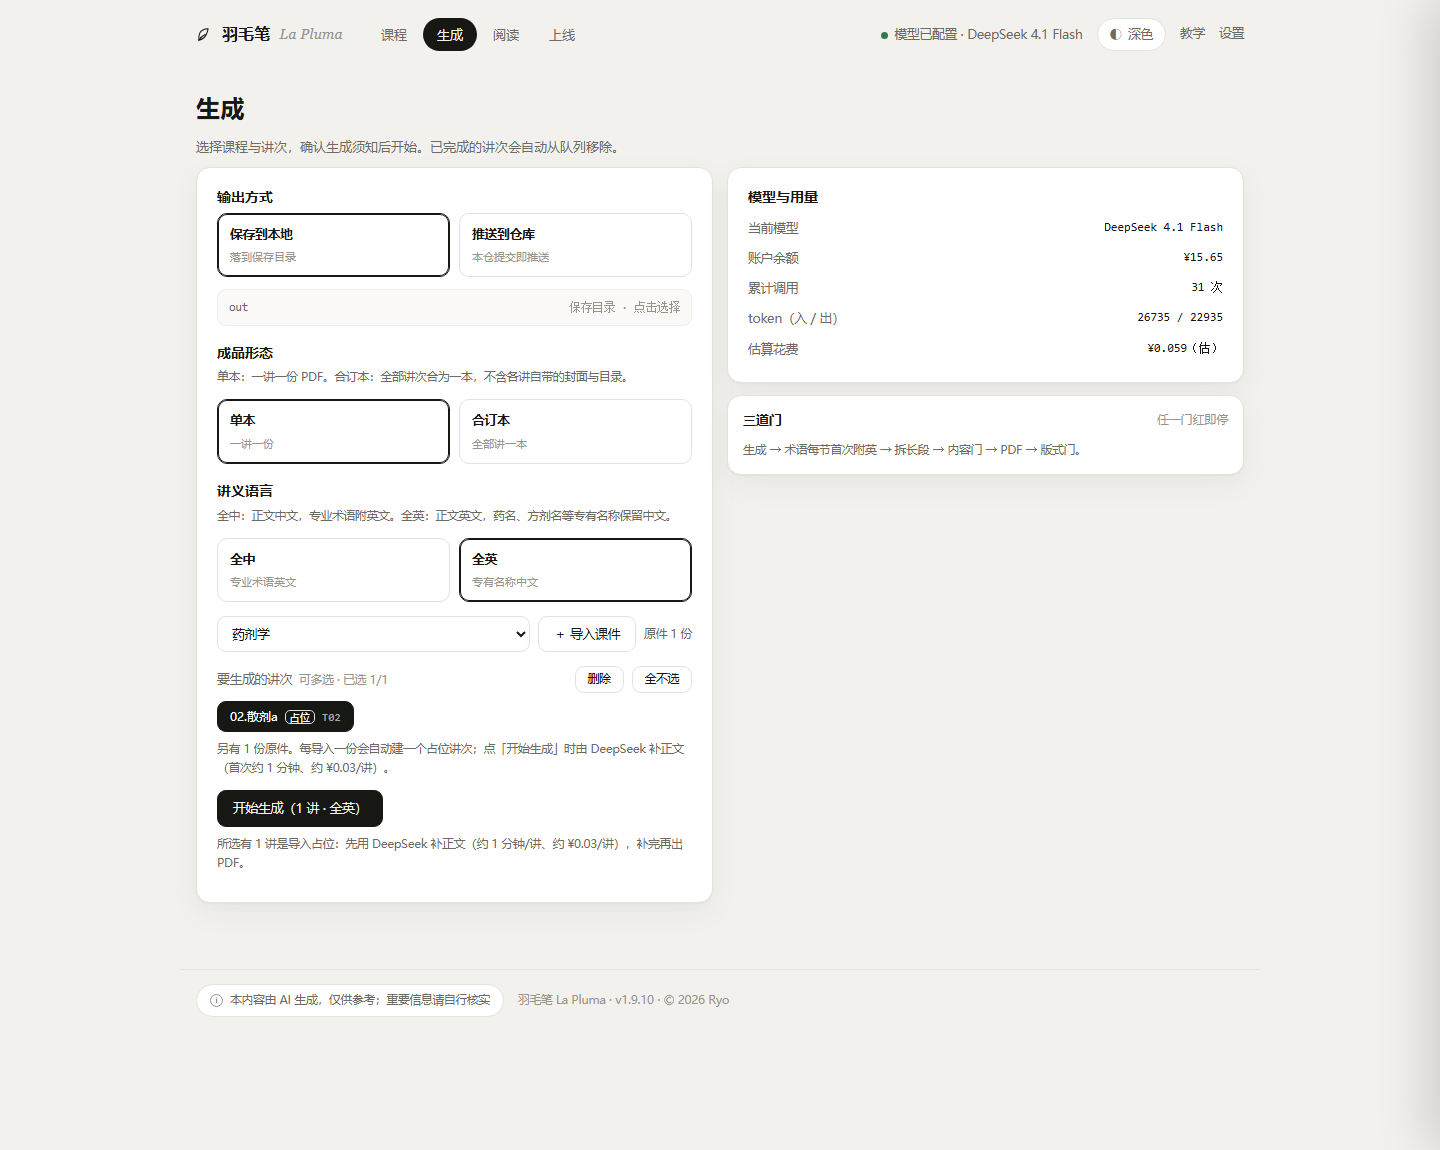
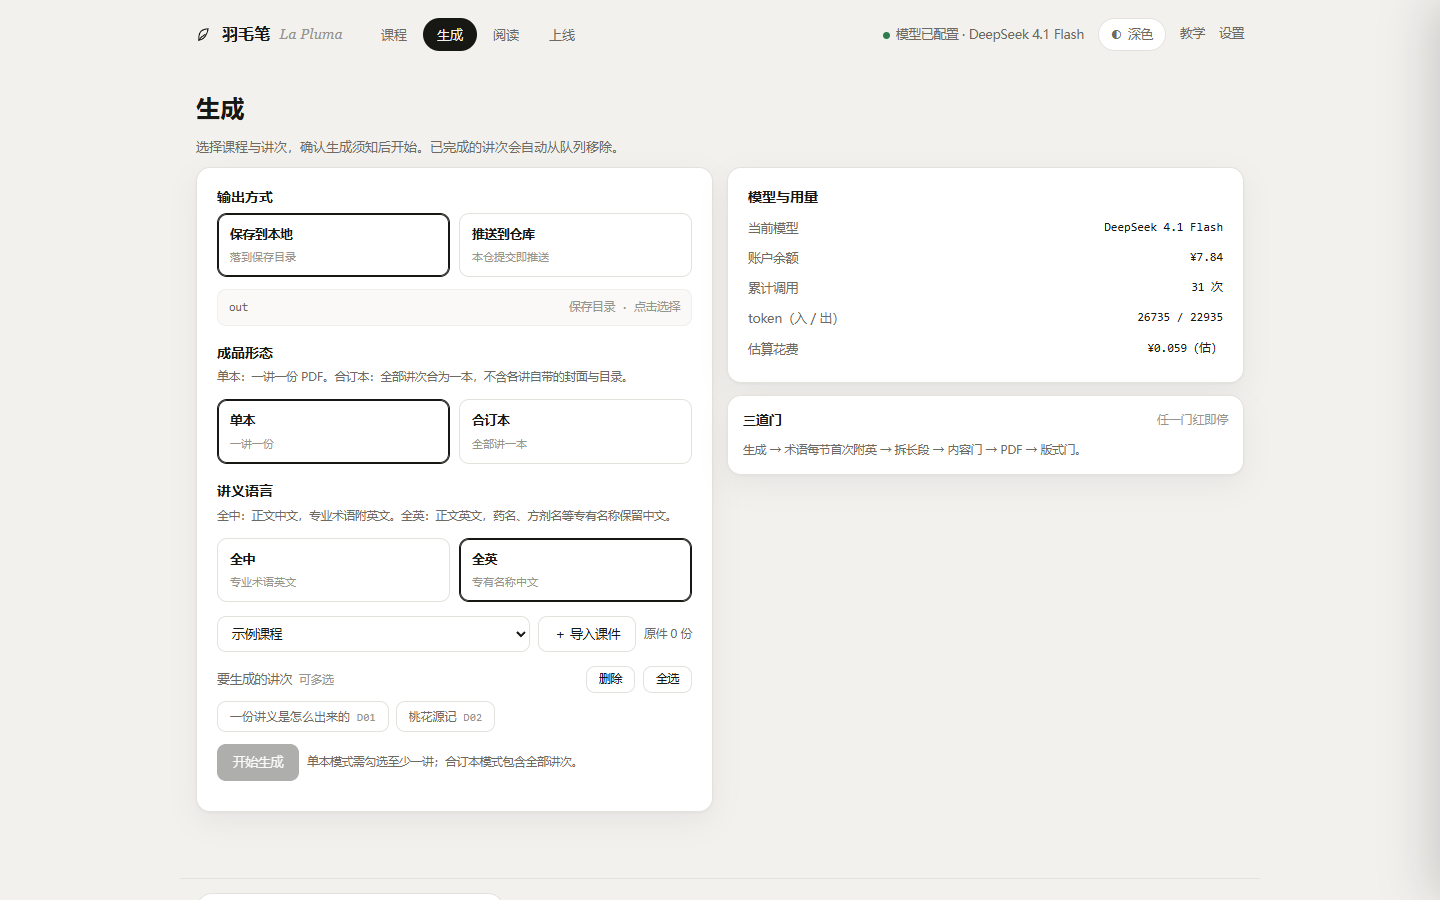
fix(window): 导航固定、拉边缩放与界面截图全量重拍（v1.9.11）

diff --git a/ui/index.html b/ui/index.html
@@ -477,6 +477,18 @@ footer{max-width:1080px;margin:26px auto 0;padding:0 16px;display:flex;align-ite
  body.win{height:100vh;overflow:hidden;display:flex;flex-direction:column}
  body.win #appScroll{flex:1 1 auto;min-height:0;overflow-y:auto;overflow-x:hidden}
  body.win .tbar{position:relative;flex:0 0 36px}
+ /* 导航在窗口模式里也固定（标题栏下面），页面内容从它下面滚 */
+ body.win #navSticky{position:sticky;top:0;z-index:70;background:var(--bg);border-bottom:1px solid var(--line2)}
+ body.win #navSticky .top{padding-bottom:10px}
+ /* 拉边缩放：WebView2 子窗口盖住 NC 边，系统 WM_NCHITTEST 收不到鼠标；
+    用 5–6px 的透明把手自己算，右侧让出 10px 滚动条 */
+ .rz{position:fixed;z-index:90;touch-action:none}
+ .rz-r{top:36px;right:10px;bottom:10px;width:5px;cursor:ew-resize}
+ .rz-l{top:36px;left:0;bottom:10px;width:6px;cursor:ew-resize}
+ .rz-b{left:0;right:10px;bottom:0;height:6px;cursor:ns-resize}
+ .rz-br{right:10px;bottom:0;width:16px;height:16px;cursor:nwse-resize}
+ .rz-bl{left:0;bottom:0;width:16px;height:16px;cursor:nesw-resize}
+ body.fs-read .rz{display:none}
  /* 滚动条收窄、去掉上下箭头按钮（2026-11-19：原来那条 17px 的经典滚动条太像网页，且带按钮） */
  body.win #appScroll{scrollbar-width:thin;scrollbar-color:var(--line) transparent}
  body.win #appScroll::-webkit-scrollbar{width:10px;height:10px}
@@ -543,6 +555,7 @@ footer{max-width:1080px;margin:26px auto 0;padding:0 16px;display:flex;align-ite
   </div>
 </div>
 <div id="appScroll">
+<div id="navSticky">
 <div class="top">
   <div class="brand">
     <svg width="17" height="17" viewBox="0 0 24 24" fill="none" stroke-width="1.5" stroke-linecap="round">
@@ -563,6 +576,7 @@ footer{max-width:1080px;margin:26px auto 0;padding:0 16px;display:flex;align-ite
     <span class="link" id="btnSet">设置</span>
   </div>
 </div>
+</div><!-- /navSticky -->
 
 <div class="wrap">
   <!-- 课程 -->
@@ -2519,6 +2533,53 @@ document.addEventListener('keydown', e => {
     bind('tbClose', a2 => a2.close());
   }
 
+  /* ---- 拉边缩放（2026-11-19）----
+     WebView2 的 child 窗口盖住了窗口的非客户区，系统的 WM_NCHITTEST 收不到鼠标，
+     WS_THICKFRAME 形同虚设；这里用 5 个透明把手自己做，位置/尺寸走 pywebview API。 */
+  function initResize(){
+    if(!WIN) return;
+    const api = () => (window.pywebview && window.pywebview.api) || null;
+    const specs = [
+      ['rz-r', 'r'], ['rz-l', 'l'], ['rz-b', 'b'], ['rz-br', 'rb'], ['rz-bl', 'lb']
+    ];
+    specs.forEach(([cls, edge]) => {
+      const el = document.createElement('div');
+      el.className = 'rz ' + cls;
+      document.body.appendChild(el);
+      el.addEventListener('pointerdown', e => {
+        const a = api();
+        if(!a || !a.get_box) return;
+        e.preventDefault();
+        a.get_box().then(box => {
+          if(!box || !box.ok || box.maxed) return;
+          const sx = e.screenX, sy = e.screenY;
+          let raf = 0, last = {x:box.x, y:box.y, w:box.w, h:box.h};
+          const move = ev => {
+            if(ev.buttons === 0) return;
+            const dx = ev.screenX - sx, dy = ev.screenY - sy;
+            let x = box.x, y = box.y, w = box.w, h = box.h;
+            if(edge.includes('r')) w = box.w + dx;
+            if(edge.includes('l')) { w = box.w - dx; x = box.x + dx; }
+            if(edge.includes('b')) h = box.h + dy;
+            if(w < 640){ if(edge.includes('l')) x = box.x + box.w - 640; w = 640; }
+            if(h < 480) h = 480;
+            last = {x, y, w, h};
+            if(!raf) raf = requestAnimationFrame(() => {
+              raf = 0;
+              try{ a.set_box(last.x, last.y, last.w, last.h); }catch(_){}
+            });
+          };
+          const up = () => {
+            document.removeEventListener('pointermove', move);
+            document.removeEventListener('pointerup', up);
+          };
+          document.addEventListener('pointermove', move);
+          document.addEventListener('pointerup', up, {once:true});
+        }).catch(() => {});
+      });
+    });
+  }
+
   /* ---- 更新提示 ---- */
   function snoozed(){
     try{ const t = Number(localStorage.getItem(SNOOZE) || 0); return !!t && Date.now() < t; }
@@ -2639,7 +2700,7 @@ document.addEventListener('keydown', e => {
   function initBarOnce(){
     if(barDone) return;
     if(!document.getElementById('tbar')) return;   // DOM 还没到就等下一次事件，别把「没初始化」记成完成
-    barDone = true; initBar();
+    barDone = true; initBar(); initResize();
   }
 
   window.addEventListener('pywebviewready', () => { if(WIN) initBarOnce(); });

diff --git a/tools/check/shot-rest.py b/tools/check/shot-rest.py
@@ -1,0 +1,137 @@
+# -*- coding: utf-8 -*-
+"""补齐 check-ui-preview 里需要交互的界面截图（2026-11-19）。
+
+    python tools\check\shot-rest.py --base http://127.0.0.1:8810
+
+只用示例课程 DEMO，保存目录显示 out；不拍真实课件名与本机路径。
+"""
+from __future__ import annotations
+
+import argparse
+import json
+import os
+import urllib.parse
+
+from playwright.sync_api import sync_playwright
+
+ROOT = os.path.dirname(os.path.dirname(os.path.dirname(os.path.abspath(__file__))))
+OUT = os.path.join(ROOT, "docs", "资产")
+
+MSGS = [
+    {"role": "user", "text": "这份讲义里散剂的粒度要求是什么？", "at": ""},
+    {"role": "a", "text": "一般散剂通过 6 号筛的细粉不少于 95%；眼用散全部通过 9 号筛（200 目，75 μm）。",
+     "refs": [{"course": "DEMO", "lesson": "D02", "sec": "2", "title": "散剂与粒度", "kind": "p",
+               "pages": ["课件 p.13"], "text": "…"}],
+     "meta": "出自 §2 散剂与粒度｜D02｜DeepSeek 4.1 Flash · 0.8s"},
+]
+
+
+def main() -> int:
+    ap = argparse.ArgumentParser()
+    ap.add_argument("--base", default="http://127.0.0.1:8810")
+    a = ap.parse_args()
+    os.makedirs(OUT, exist_ok=True)
+
+    with sync_playwright() as p:
+        br = p.chromium.launch(channel="msedge", headless=True)
+        pg = br.new_page(viewport={"width": 1440, "height": 900})
+
+        def prep():
+            pg.evaluate("""() => {
+                const s = window.__pluma && window.__pluma.state();
+                if(!s) return;
+                s.B.courses = s.B.courses.filter(c => c.code === 'DEMO');
+                s.B.save_dir = 'out';
+                window.__pluma.render(); window.__pluma.fillSelects();
+                const o = document.querySelector('#outPath'); if(o) o.textContent = 'out';
+            }""")
+
+        def shot(name):
+            pg.evaluate("""() => {
+                const t = document.querySelector('#toast'); if(t) t.classList.remove('on');
+                const o = document.querySelector('#outPath'); if(o) o.textContent = 'out';
+            }""")
+            pg.wait_for_timeout(250)
+            pg.screenshot(path=os.path.join(OUT, name))
+            print("%-28s %8d" % (name, os.path.getsize(os.path.join(OUT, name))))
+
+        # 1 设置
+        pg.goto(a.base + "/?dbg=1&course=DEMO&settings=1", wait_until="networkidle")
+        pg.wait_for_timeout(700); prep(); pg.wait_for_timeout(300); shot("界面-设置.png")
+
+        # 2 搜索-最近
+        pg.goto(a.base + "/?dbg=1&course=DEMO", wait_until="networkidle")
+        pg.evaluate("localStorage.setItem('pluma.recent', JSON.stringify(['桃花源记','D02','总览']))")
+        pg.reload(wait_until="networkidle"); prep()
+        pg.click("#btnFind"); pg.wait_for_timeout(700); shot("界面-搜索-最近.png")
+
+        # 3 会话（拦截 session，造两条示例消息）
+        def session_route(route):
+            if route.request.method == "GET":
+                route.fulfill(status=200, content_type="application/json",
+                              body=json.dumps({"code": "DEMO", "messages": MSGS, "updated": "2026-11-19 09:00"}, ensure_ascii=False))
+            else:
+                route.continue_()
+
+        pg.route("**/api/session**", session_route)
+        pg.goto(a.base + "/?dbg=1&course=DEMO&chat=DEMO", wait_until="networkidle")
+        pg.wait_for_timeout(900); prep(); pg.wait_for_timeout(300); shot("界面-会话.png")
+        pg.evaluate("document.documentElement.dataset.theme='dark'"); pg.wait_for_timeout(500); shot("界面-会话-深色.png")
+        pg.evaluate("document.documentElement.dataset.theme='light'")
+
+        # 4 笔记多选（同一会话，勾选全部消息）
+        boxes = pg.query_selector_all(".m .pick")
+        for b in boxes:
+            b.click()
+        pg.wait_for_timeout(500); shot("界面-笔记多选.png")
+
+        # 5 导出笔记（选完后点生成笔记）
+        pg.click("#btnNote"); pg.wait_for_timeout(900); shot("界面-导出笔记.png")
+        pg.keyboard.press("Escape"); pg.wait_for_timeout(300)
+
+        # 6 阅读（示例课程 D01 成品）
+        pdf = "DEMO/01_讲义/D01_一份讲义是怎么出来的_讲义.pdf"
+        q = urllib.parse.quote(pdf, safe="")
+        pg.goto(a.base + "/?dbg=1&course=DEMO&pdf=" + q + "&code=DEMO&theme=light", wait_until="networkidle")
+        pg.wait_for_timeout(2200); prep(); pg.wait_for_timeout(500); shot("界面-阅读.png")
+
+        # 7 导出 / 合订本（课程卡右下角）
+        pg.goto(a.base + "/?dbg=1&course=DEMO", wait_until="networkidle")
+        prep(); pg.wait_for_timeout(300)
+        pg.click(".course .expbtn"); pg.wait_for_timeout(600); shot("界面-导出.png")
+        pg.click('#exMode [data-ex="book"]'); pg.wait_for_timeout(400); shot("界面-导出-合订本.png")
+        pg.keyboard.press("Escape"); pg.wait_for_timeout(300)
+
+        # 8 余额不足（拦 /api/ask 回 402 语义）
+        pg2 = br.new_page(viewport={"width": 1440, "height": 900})
+        pg2.route("**/api/ask", lambda r: r.fulfill(
+            status=200, content_type="application/json",
+            body=json.dumps({"ok": False, "need_money": True, "balance": {"ok": True, "balance": "0.00"},
+                             "cost_est": "约 ¥0.02", "model": "deepseek-flash", "refs": []})))
+        pg2.goto(a.base + "/?dbg=1&course=DEMO&chat=DEMO", wait_until="networkidle")
+        pg2.wait_for_timeout(900)
+        pg2.fill("#chatQ", "这一讲的粒度要求是什么？")
+        pg2.click("#btnSend"); pg2.wait_for_timeout(900)
+        pg2.screenshot(path=os.path.join(OUT, "界面-余额不足.png"))
+        print("%-28s %8d" % ("界面-余额不足.png", os.path.getsize(os.path.join(OUT, "界面-余额不足.png"))))
+        pg2.close()
+
+        # 9 访问码（拦 /api/host 返回已上线状态，不真开端口）
+        pg.route("**/api/host", lambda r: r.fulfill(
+            status=200, content_type="application/json",
+            body=json.dumps({"lan": True, "code": "12345678", "url_local": "http://127.0.0.1:8765",
+                             "url_lan": "http://192.0.2.10:8765"}, ensure_ascii=False)))
+        pg.goto(a.base + "/?dbg=1&course=DEMO&page=host", wait_until="networkidle")
+        pg.wait_for_timeout(900); prep(); pg.wait_for_timeout(300); shot("界面-访问码.png")
+
+        # 10 生成页语言档
+        for lang, name in (("zh", "界面-生成-语言档-全中.png"), ("en", "界面-生成-语言档-全英.png")):
+            pg.goto(a.base + "/?dbg=1&course=DEMO&page=generate&savedir=out&lang=" + lang, wait_until="networkidle")
+            pg.wait_for_timeout(800); prep(); pg.wait_for_timeout(400); shot(name)
+
+        br.close()
+    return 0
+
+
+if __name__ == "__main__":
+    raise SystemExit(main())

diff --git a/ui/server.py b/ui/server.py
@@ -2469,6 +2469,39 @@ class _WinApi:
         except Exception as e:  # noqa: BLE001
             return {"ok": False, "error": str(e)}
 
+    def get_box(self):
+        """窗口位置与大小（拉边缩放用）。"""
+        try:
+            import ctypes
+            import ctypes.wintypes as wt
+            u = ctypes.windll.user32
+            hwnd = _find_hwnd()
+            if not hwnd:
+                return {"ok": False}
+            r = wt.RECT()
+            u.GetWindowRect(hwnd, ctypes.byref(r))
+            return {"ok": True, "x": r.left, "y": r.top,
+                    "w": r.right - r.left, "h": r.bottom - r.top,
+                    "maxed": bool(u.IsZoomed(hwnd))}
+        except Exception as e:  # noqa: BLE001
+            return {"ok": False, "error": str(e)}
+
+    def set_box(self, x: int, y: int, w: int, h: int):
+        """移动到 (x,y) 并改成 w×h（拉边缩放用；最大化时拒绝）。"""
+        try:
+            import ctypes
+            import ctypes.wintypes as wt
+            u = ctypes.windll.user32
+            hwnd = _find_hwnd()
+            if not hwnd or u.IsZoomed(hwnd):
+                return {"ok": False}
+            w = max(640, int(w)); h = max(480, int(h))
+            # SWP_NOZORDER(0x4) | SWP_NOACTIVATE(0x10)
+            u.SetWindowPos(hwnd, 0, int(x), int(y), w, h, 0x0014)
+            return {"ok": True, "x": int(x), "y": int(y), "w": w, "h": h}
+        except Exception as e:  # noqa: BLE001
+            return {"ok": False, "error": str(e)}
+
     def move_by(self, dx: int, dy: int):
         """拖标题栏的旧方案（保留作非 Windows / 原生拖拽不可用时的回退）。"""
         w = self._win()

diff --git a/docs/预览/README.md b/docs/预览/README.md
@@ -38,7 +38,7 @@
 | `19-多课程-62门.png` | 62 门课时的课程页实拍（压测）：3 列卡片、暂无搜索 | 「测试在课程很多的情况下 软件会怎么样」 | **已实现**（v1.8.0 加了放大镜与搜索面板，62 门不用再滚；卡片网格本身未改） |
 | `20-保存目录-选择文件夹.png` | 向导第 3 步（选保存目录）与设置页那行：输入框右侧加「📁 选择文件夹…」，默认值只显示相对路径（不再把本机 `F:\…` 印在界面上），系统对话框从软件目录打开；右下角是浏览器标签页加羽毛图标的前后对比（favicon） | 用户 2026-11-17：「底下填地址该可以选择文件夹的，默认是在羽毛笔在的地方」＋「软件图标还没有整上去」 | **已实现**（v1.9.1）· 真实界面见 `../资产/界面-向导-保存目录.png` 与 `界面-设置.png` |
 | `界面-删除讲次` / `界面-删除课程` / `界面-队列取消`（真实截图，见 `../资产/`） | 删除入口三态：① 生成页讲次区「删除」旁边的红 ×（删除模式）；② 整门课程删除弹窗（列出将移除的讲次 / 成品 / 原件，需照抄课程代号）；③ 生成队列每项的「取消」与取消后的「已取消」。另：抽屉每行、搜索面板课程行与课件行各带「删除」，最近搜索可「清除记录」 | 用户 2026-11-17：「增加删除『要生成的批次』的功能 在全选旁边 点击后 T01/T02 右上角出现红 x；下载队列和取消的按钮也是；课程里面也可以加删除按钮；检查其他地方是否还有类似的」 | **已实现**（v1.9.3）· 一律移入 `<软件目录>\_trash\<时间戳>\` 可恢复；判断入口是否齐全由 `check-deletion.ps1` 按七类对象逐项判（PRTS R102） |
-| `界面-顶栏固定`（真实截图，见 `../资产/`） | 自绘标题栏固定在窗口顶部：生成页下滚 520px 后标题栏仍在，导航已滚走；顶部窗口按钮与拖拽区域不受影响 | 用户 2026-11-19：「视窗拖不动」「顶栏在软件往下滚的时候会一起移动」「这一条东西…突破到顶栏在软件外面」 | **已实现**（v1.9.11）· 拖拽改挂 document 指针事件，实测位移 148×54；最小化 / 最大化 / 还原 / 双击标题栏实测通过；窗口模式改成 app shell，滚动条从标题栏下方开始（截图右侧可见）；阅读全屏时标题栏收起 |
+| `界面-顶栏固定`（真实截图，见 `../资产/`） | 自绘标题栏固定在窗口顶部：生成页下滚 520px 后标题栏仍在，导航已滚走；顶部窗口按钮与拖拽区域不受影响 | 用户 2026-11-19：「视窗拖不动」「顶栏在软件往下滚的时候会一起移动」「这一条东西…突破到顶栏在软件外面」「1 2 3 都做」 | **已实现**（v1.9.11）· 拖拽改挂 document 指针事件，实测位移 148×54；最小化 / 最大化 / 还原 / 双击标题栏实测通过；窗口模式改成 app shell，滚动条从标题栏下方开始（截图右侧可见）；导航条固定在标题栏下面；拉边缩放补了 5 个透明把手（实测拖 120×80 → 96×64，DPI 虚拟化）；28 张界面截图全量重拍 |
 | `界面-生成-语言档-全中` / `界面-生成-语言档-全英`（真实截图，见 `../资产/`） | 生成页新增「讲义语言」两档（全中＝专业术语英文 / 全英＝专有名称中文）；讲次芯片显示原件名（02.散剂a）与「占位」小标；选中占位时按钮旁写明 DeepSeek 补正文约 1 分钟、约 ¥0.03/讲 | 用户 2026-11-18：「导入的项目不是原本的名字（导入之后就变成了 T02）」「成品出现问题了」「增加选择输出模式 全英（专有名称中文）和全中（专业名称英文 也就是原本输出模式）」 | **已实现**（v1.9.10）· 截图取自真实界面（`?page=generate&course=药剂学&lsn=T02&savedir=out`）；占位不再直接出 PDF 由 `check-stub-guard.py` 判 4/4；合订本暂只出全中（界面与 API 同一口径） |
 
 ## 待规划需求（用户已提，尚未出图）

diff --git a/CHANGELOG.md b/CHANGELOG.md
@@ -11,6 +11,9 @@
 - **滚动条穿过标题栏**（用户截图：右侧一条竖条顶出窗口标题栏）：原来 body 自己滚，滚动条从窗口最顶端铺下来，压住标题栏与窗口按钮。现在窗口模式改成 app shell——标题栏独立一行，#appScroll 从标题栏下方开始滚，滚动条起点在标题栏下面，不再"突破"出去
 - **阅读全屏时标题栏遮住内容**：全屏阅读给 body 加 fs-read，标题栏收起，退出全屏自动回来
 - **初始化竞态**：DOM 里还没有标题栏时不再把「已初始化」记成完成；版本号仍从 /api/bootstrap 取
+- **导航固定在标题栏下面**（用户：「1 2 3 都做」）：窗口模式给 #navSticky 加 sticky，课程 / 生成 / 阅读 / 上线滚页时不再消失
+- **拉边缩放补上**（此前系统 WS_THICKFRAME 被 WebView2 子窗口盖住，实测拖边 0×0）：新增 5 个透明把手（左 / 右 / 下 / 左下 / 右下），拖动走 get_box/set_box；右侧让出 10px 滚动条，实测拖 120×80 得到 96×64（进程 DPI 虚拟化口径，物理位移与鼠标一致）
+- **界面截图全量重拍**：28 张旧图一次拍齐（新增 tools\check\shot-rest.py，用 Playwright 补会话 / 阅读 / 设置 / 导出 / 笔记 / 余额不足 / 访问码 / 语言档；保存目录显示 out，不出现本机路径与真实课程名）
 
 
 ## v1.9.10 · 2026-11-19
